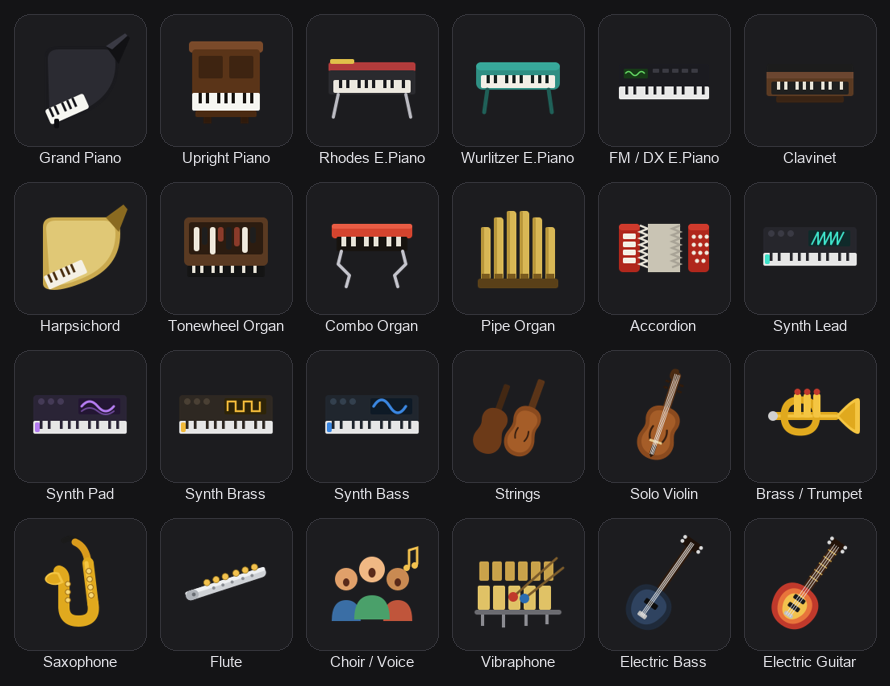
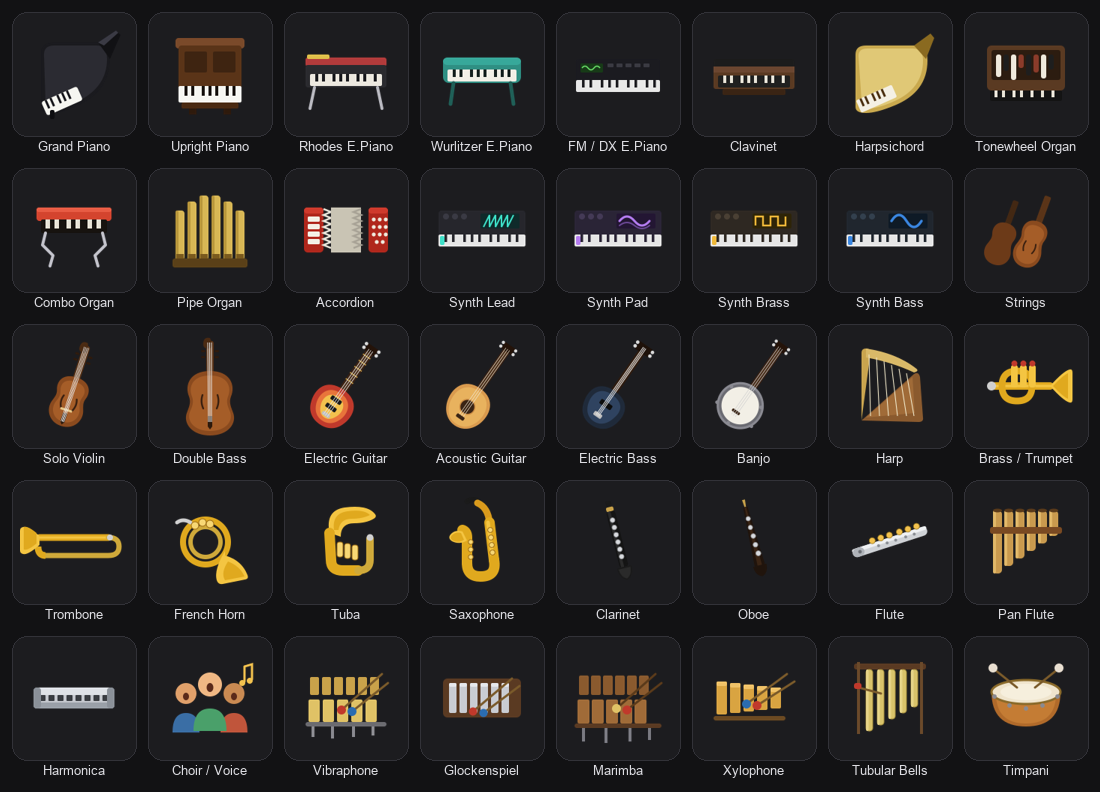
feat(stage-keys): extend palette to 40 voices
Wave 2 (+16): trombone, french horn, tuba, clarinet, oboe, pan flute,
harmonica, harp, timpani, glockenspiel, marimba, xylophone, tubular bells,
acoustic guitar, double bass, banjo. Rounds out brass, woodwinds, mallets
and acoustic strings for a keyboardist/arranger's full voice set. All pass
render → validate → package; preview.png regenerated.

diff --git a/TASKS.md b/TASKS.md
@@ -1,17 +1,21 @@
 # TASKS — stream-deck-icons
 
-## Toolkit
-- 🤔 Verify `.streamDeckIconPack` = plain zip by installing a built pack via double-click → confirms the convenience zip installs, or tells us Icon Pack Man is mandatory
-- ☐ Optional: `pyproject.toml` + `pip install -e .` so `sdicons` is on PATH
-- ☐ Optional: SVG viewBox squareness check in `validate` (warn on non-square sources → letterboxed at 144×144)
+## Publish Stage Keys (NEXT)
+- ☐ Real pack thumbnail icon.svg (currently reuses Rhodes) → design a distinct 56×56 mark
+- ☐ Package via Icon Pack Man (iconpackman.elgato.com) from packs/stage-keys/ → official .streamDeckIconPack
+- ☐ Test install: double-click the pack, confirm it appears in Stream Deck Icon Library
+- ☐ Submit through Maker Console (console.elgato.com) — licence CC-BY-4.0, follow branding guidelines
 
-## Stage Keys pack (packs/stage-keys/) — flagship
-- 🤔 Style/detail review: 24-voice full-colour palette shown 2026-07-12 — confirm or list per-icon tweaks (grand piano a bit dark; harpsichord could read clearer)
-- ☐ Real pack thumbnail icon.svg (currently reuses Rhodes)
-- 🤔 Extend the range? candidates: mellotron, celesta/tubular bells, marimba, brass section (trombone/tuba), oboe/clarinet, steel drum, kalimba, tonewheel Leslie state
-- ☐ Publish: package via Icon Pack Man + submit through Maker Console (CC-BY-4.0)
+## Toolkit
+- 🤔 Verify `.streamDeckIconPack` = plain zip by installing a built pack via double-click
+- ☐ Optional: `pyproject.toml` + `pip install -e .` so `sdicons` is on PATH
+- ☐ Optional: SVG viewBox squareness check in `validate` (warn on non-square sources)
+
+## Stage Keys pack (packs/stage-keys/)
+- 🤔 Per-icon polish pass if wanted: grand piano a touch dark; oboe/clarinet read similar
+- 🤔 Extend further? mellotron, celesta, steel drum, kalimba, sitar, mandolin, ukulele
 
 ## Done
 - ✅ Public repo live: https://github.com/Beennnn/stream-deck-icons
 - ✅ Toolkit (sdicons) end-to-end validated
-- ✅ Stage Keys: 24 full-colour instrument/voice icons drawn, built, validated
+- ✅ Stage Keys: 40 full-colour stage-piano voice icons drawn, built, validated

diff --git a/packs/stage-keys/README.md b/packs/stage-keys/README.md
@@ -26,15 +26,19 @@ keyboard:
 - **See the sound before you press it.** No landing on the wrong program at the
   wrong moment.
 
-## What's inside (24 voices)
+## What's inside (40 voices)
 
 - **Pianos** — grand, upright, Rhodes, Wurlitzer, FM/DX
 - **Clav & historic keys** — clavinet, harpsichord
 - **Organs** — tonewheel (drawbars), combo (Vox), pipe, accordion
 - **Synths** — lead, pad, brass, bass
-- **Acoustic voices you switch to** — strings, solo violin, brass/trumpet,
-  saxophone, flute, choir/voice, vibraphone
-- **Rhythm section** — electric bass, electric guitar
+- **Strings** — section, solo violin, double bass, harp
+- **Guitars & bass** — electric guitar, acoustic guitar, electric bass, banjo
+- **Brass** — trumpet, trombone, french horn, tuba
+- **Woodwinds** — saxophone, clarinet, oboe, flute, pan flute, harmonica
+- **Voice** — choir / voice
+- **Mallets & percussion** — vibraphone, glockenspiel, marimba, xylophone,
+  tubular bells, timpani
 
 ## Build it
 

diff --git a/README.md b/README.md
@@ -83,7 +83,7 @@ The enforced spec is documented in [docs/spec.md](docs/spec.md).
 
 ## Packs built with it
 
-- **[Stage Keys](packs/stage-keys/)** — 24 full-colour sound-select icons for the
+- **[Stage Keys](packs/stage-keys/)** — 40 full-colour sound-select icons for the
   live keyboardist (pianos, e-pianos, organs, synths, and the acoustic voices you
   switch to mid-song). One Stream Deck key per stage-piano voice.
 